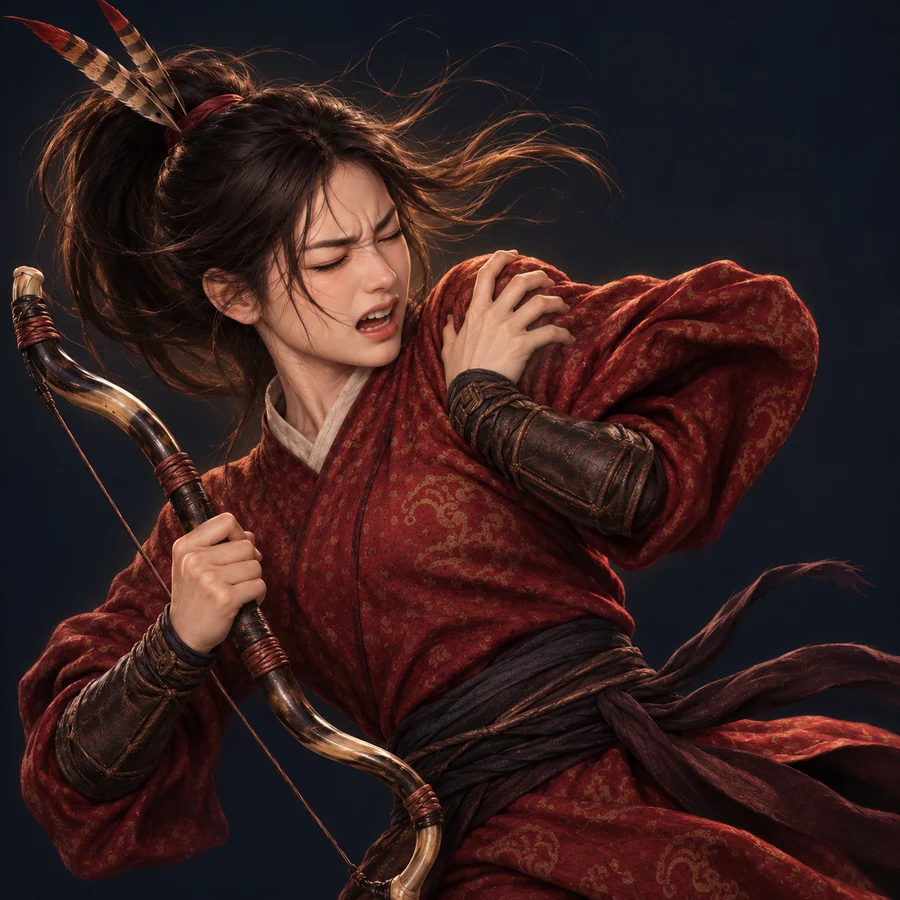
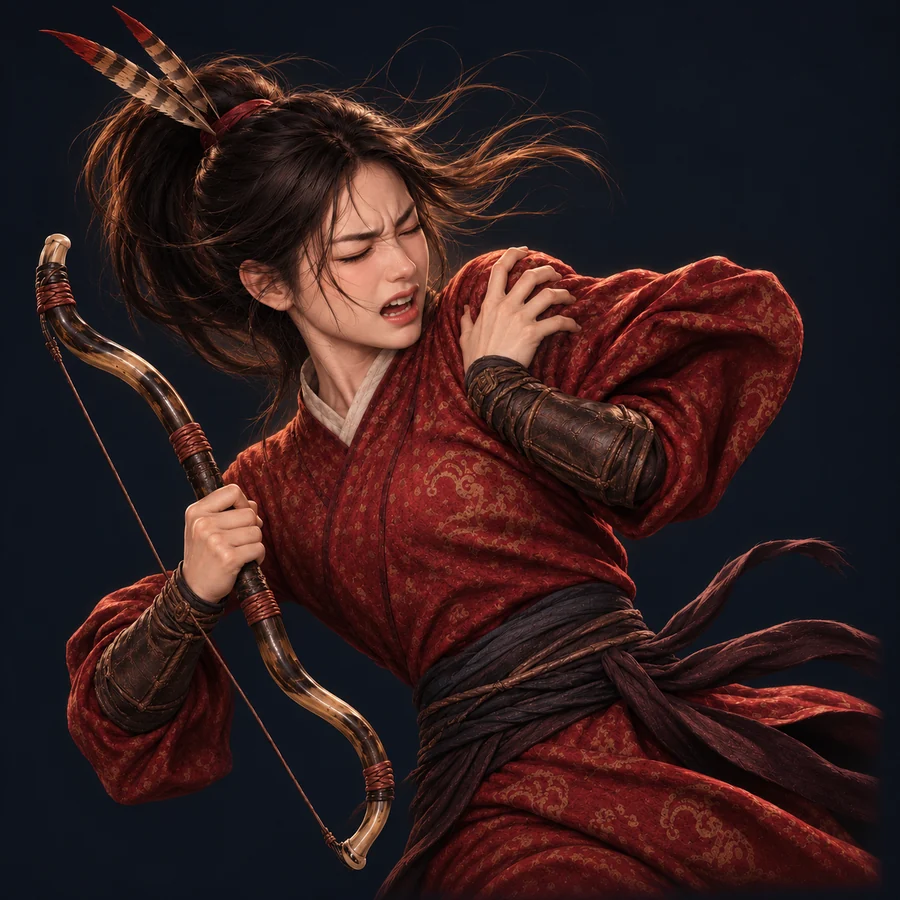
피격 초상: 고구려 활 왕자·온누리·금하·웅녀·변한 대장장이·평강
Claude-Session: https://claude.ai/code/session_01TRiuNB7ETQrp6jqUMFwvt7

diff --git a/src/ui/hit-portrait.ts b/src/ui/hit-portrait.ts
@@ -22,7 +22,7 @@ import { P } from '../tune/params.ts'
 /** 초상 결 — bust(기본 원화) · awaken(각성 원화) */
 export type HitForm = 'bust' | 'awaken'
 /** 피격 그림이 있는 초상 — `${결}/${초상 id}` (public/realm/hit/<결>/<id>.webp). 지금은 그림 없음 */
-export const HIT_ART: ReadonlySet<string> = new Set<string>(['awaken/g-01-master-smith', 'awaken/g-03-sea-trader', 'awaken/g-04-jinhan-giant', 'awaken/g-05-mahan-chieftain', 'awaken/g-06-strategist', 'awaken/g-07-drunk-warrior', 'awaken/g-08-veteran', 'awaken/g-09-farmer-conscript', 'awaken/g-10-buyeo-horse-lord', 'awaken/g-100-buyeo-old-daeso', 'awaken/g-101-garak-adogan', 'awaken/g-102-garak-yeodogan', 'awaken/g-103-garak-pidogan', 'awaken/g-104-garak-odogan', 'awaken/g-105-garak-yusugan', 'awaken/g-106-garak-ocheongan', 'awaken/g-107-garak-musoe', 'awaken/g-11-gaya-iron-general', 'awaken/g-12-silla-youth', 'awaken/g-13-baekje-general', 'awaken/g-15-shaman-man', 'awaken/g-16-goguryeo-gaema-commander', 'awaken/g-17-saro-isageum', 'awaken/g-18-daegaya-king', 'awaken/g-19-sabeol-veteran', 'awaken/g-20-samul-sea-lord', 'awaken/g-22-ungcheon-gomnae', 'awaken/g-23-sangdang-soedal', 'awaken/g-24-wansan-onsan', 'awaken/g-25-balla-keunmoe', 'awaken/g-26-gampyeong-gaetbeol', 'awaken/g-27-maek-maekdol', 'awaken/g-28-goguryeo-damul', 'awaken/g-29-yeonna-myeongsol', 'awaken/g-30-gwanna-soemoe', 'awaken/g-32-uga-sodu', 'awaken/g-33-jeoga-metdol', 'awaken/g-34-bukokjeo-duman', 'awaken/g-35-dabeol-dalgu', 'awaken/g-36-gammun-gamdol', 'awaken/g-37-eumjeup-jeup', 'awaken/g-38-chopal-palmae', 'awaken/g-40-anya-adan', 'awaken/g-41-goja-bau', 'awaken/g-42-dokro-garam', 'awaken/g-43-hwanna-amnok', 'awaken/g-44-maga-malgup', 'awaken/g-45-dabeol-deulgae', 'awaken/g-46-uga-nureongso', 'awaken/g-47-guga-sanyanggae', 'awaken/g-48-gwanna-musoe', 'awaken/g-49-goguryeo-sona', 'awaken/g-50-bullae-gwaha', 'awaken/g-51-biryuna-mulgyeol', 'awaken/g-52-tamna-oreum', 'awaken/g-53-baekje-haeru', 'awaken/g-54-mokji-mahan', 'awaken/g-55-saro-bakdal', 'awaken/g-56-haseulla-gwahama', 'awaken/g-57-bihwa-neup', 'awaken/g-58-usan-uhae', 'awaken/g-59-yangmaek-maekson', 'awaken/g-60-eupcha-hangyeol', 'awaken/g-60-golbeol-golgae', 'awaken/g-61-apdok-ap', 'awaken/g-61-heomcheuk-bawi', 'awaken/g-62-beonye-hanul', 'awaken/g-62-gammun-gamnamu', 'awaken/g-63-chopal-yeoul', 'awaken/g-63-heomcheuk-beogeum', 'awaken/g-64-jumong', 'awaken/g-64-michuhol-sogeumkkun', 'awaken/g-65-goguryeo-damul', 'awaken/g-65-sangdang-soemangchi', 'awaken/g-66-buyeo-geumha', 'awaken/g-66-geonma-malbalgup', 'awaken/g-67-buyeo-daeso', 'awaken/g-67-gosaburi-buri', 'awaken/g-68-baekje-onnuri', 'awaken/g-68-mujin-bitgoeul', 'awaken/g-69-goryong-yong', 'awaken/g-69-guya-soebo', 'awaken/g-70-siljik-pado', 'awaken/g-71-baekje-onjo', 'awaken/g-73-baekje-eureum', 'awaken/g-74-saro-hyeokgeose', 'awaken/g-75-saro-hogong', 'awaken/g-76-mokji-jinha', 'awaken/g-77-saro-sobeol', 'awaken/g-78-saro-alpyeong', 'awaken/g-79-saro-jibaekho', 'awaken/g-80-saro-guryema', 'awaken/g-81-saro-jita', 'awaken/g-82-saro-hojin', 'awaken/g-83-mokji-keundol', 'awaken/g-84-wander-seoneul', 'awaken/g-85-wander-ure', 'awaken/g-86-mokji-geumbawi', 'awaken/g-87-wae-chief', 'awaken/g-88-wander-soeul', 'awaken/g-89-baekje-maryeo', 'awaken/g-90-haengin-gomok', 'awaken/g-91-biryu-songyang', 'awaken/g-92-goguryeo-mari', 'awaken/g-93-jomun-solgae', 'awaken/g-94-golpo-maenun', 'awaken/g-95-goguryeo-daemusin', 'awaken/g-96-garak-suro', 'awaken/g-97-tahae', 'awaken/g-98-goguryeo-gwaeyu', 'awaken/g-99-goguryeo-maro', 'awaken/l-L1-yuhwa', 'awaken/l-L10-pyeonggang', 'awaken/l-L2-soseono', 'awaken/l-L3-heo-hwangok', 'awaken/l-L4-bari-gongju', 'awaken/l-L5-seonyeo', 'awaken/l-L6-jeonggyeon-moju', 'awaken/l-L7-aryeong', 'awaken/l-L8-nangnang-princess', 'awaken/w-01-silla-princess', 'awaken/w-02-goguryeo-lady', 'awaken/w-03-goguryeo-archer', 'awaken/w-04-gaya-swordswoman', 'awaken/w-05-baekje-queen', 'awaken/w-06-buyeo-huntress', 'awaken/w-08-mahan-warrior', 'awaken/w-10-pirate-captain', 'awaken/w-100-garak-sincheongan', 'awaken/w-101-garak-singwigan', 'awaken/w-102-garak-dana', 'awaken/w-103-tahae-neoul', 'awaken/w-104-buyeo-darae', 'awaken/w-11-assassin', 'awaken/w-12-court-dancer', 'awaken/w-13-young-archer', 'awaken/w-14-feast-spy', 'awaken/w-17-mahan-pearl-diver', 'awaken/w-18-jinhan-salt-widow', 'awaken/w-19-buyeo-fur-princess', 'awaken/w-20-gaya-smith-daughter', 'awaken/w-21-baekje-court-dancer', 'awaken/w-22-dongye-tiger-huntress', 'awaken/w-23-usisan-whale-queen', 'awaken/w-24-apdok-queen', 'awaken/w-25-bihwa-priestess', 'awaken/w-26-iseo-tomboy-general', 'awaken/w-27-mokji-jinha', 'awaken/w-28-michuhol-bira', 'awaken/w-29-golpo-janmul', 'awaken/w-30-guya-soebi', 'awaken/w-31-dabeol-dalbit', 'awaken/w-32-golbeol-budeul', 'awaken/w-33-gammun-gamsil', 'awaken/w-34-chopal-deulme', 'awaken/w-35-jomun-odi', 'awaken/w-36-baekje-maena', 'awaken/w-37-michuhol-gaennae', 'awaken/w-38-sangdang-bulmae', 'awaken/w-39-gosaburi-galmae', 'awaken/w-40-mujin-munui', 'awaken/w-41-hwanna-beodeul', 'awaken/w-42-gwanna-soenun', 'awaken/w-43-uga-nuri', 'awaken/w-44-okjeo-sogeumbi', 'awaken/w-45-tamna-oreumbi', 'awaken/w-46-geonma-maru', 'awaken/w-47-gosaburi-baram', 'awaken/w-48-mujin-mudeung', 'awaken/w-49-goryong-gureum', 'awaken/w-50-siljik-mulga', 'awaken/w-51-haseulla-dangung', 'awaken/w-52-biryuna-songbi', 'awaken/w-53-hwanna-gabi', 'awaken/w-54-maga-dalli', 'awaken/w-55-guga-nuri', 'awaken/w-56-dongokjeo-sogeum', 'awaken/w-57-bullae-bakdal', 'awaken/w-58-tamna-halla', 'awaken/w-59-jomun-irang', 'awaken/w-60-golbeol-beom', 'awaken/w-61-iseo-sinae', 'awaken/w-62-byeokjin-byeol', 'awaken/w-63-us-haesol', 'awaken/w-64-miri-dallae', 'awaken/w-65-goguryeo-hwalmi', 'awaken/w-66-saro-noeul', 'awaken/w-67-buyeo-haedal', 'awaken/w-68-maek-beombal', 'awaken/w-69-jeoga-eomni', 'awaken/w-70-bukokjeo-mulbeom', 'awaken/w-71-yeonna-neoul', 'awaken/w-72-eumjeup-beol', 'awaken/w-73-samul-sagong', 'awaken/w-74-balla-dokmudeom', 'awaken/w-75-daegaya-soemoe', 'awaken/w-76-gampyeong-baetsagong', 'awaken/w-77-sabeol-malgalgi', 'awaken/w-78-wansan-wan', 'awaken/w-79-yangmaek-solmae', 'awaken/w-80-usan-gangchi', 'awaken/w-81-byeokjin-byeolbit', 'awaken/w-82-ungcheon-gom', 'awaken/w-83-gyeonji-beodeul', 'awaken/w-84-salhae-dallae', 'awaken/w-85-sinji-neoul', 'awaken/w-90-saro-danbi', 'awaken/w-91-saro-mulsae', 'awaken/w-92-saro-dallae', 'awaken/w-93-saro-beomi', 'awaken/w-94-mokji-dallae', 'awaken/w-95-michuhol-haebi', 'awaken/w-96-haengin-neoul', 'awaken/w-97-goguryeo-mir', 'awaken/w-98-byeonhan-danbi', 'awaken/w-99-garak-yucheongan', 'bust/g-01-master-smith', 'bust/g-03-sea-trader', 'bust/g-04-jinhan-giant', 'bust/g-05-mahan-chieftain', 'bust/g-06-strategist', 'bust/g-07-drunk-warrior', 'bust/g-08-veteran', 'bust/g-09-farmer-conscript', 'bust/g-10-buyeo-horse-lord', 'bust/g-100-buyeo-old-daeso', 'bust/g-101-garak-adogan', 'bust/g-102-garak-yeodogan', 'bust/g-103-garak-pidogan', 'bust/g-104-garak-odogan', 'bust/g-105-garak-yusugan', 'bust/g-106-garak-ocheongan', 'bust/g-107-garak-musoe', 'bust/g-11-gaya-iron-general', 'bust/g-12-silla-youth', 'bust/g-13-baekje-general', 'bust/g-15-shaman-man', 'bust/g-16-goguryeo-gaema-commander', 'bust/g-17-saro-isageum', 'bust/g-18-daegaya-king', 'bust/g-19-sabeol-veteran', 'bust/g-20-samul-sea-lord', 'bust/g-22-ungcheon-gomnae', 'bust/g-23-sangdang-soedal', 'bust/g-24-wansan-onsan', 'bust/g-25-balla-keunmoe', 'bust/g-26-gampyeong-gaetbeol', 'bust/g-27-maek-maekdol', 'bust/g-28-goguryeo-damul', 'bust/g-29-yeonna-myeongsol', 'bust/g-30-gwanna-soemoe', 'bust/g-32-uga-sodu', 'bust/g-33-jeoga-metdol', 'bust/g-34-bukokjeo-duman', 'bust/g-35-dabeol-dalgu', 'bust/g-36-gammun-gamdol', 'bust/g-37-eumjeup-jeup', 'bust/g-38-chopal-palmae', 'bust/g-40-anya-adan', 'bust/g-41-goja-bau', 'bust/g-42-dokro-garam', 'bust/g-43-hwanna-amnok', 'bust/g-44-maga-malgup', 'bust/g-45-dabeol-deulgae', 'bust/g-46-uga-nureongso', 'bust/g-47-guga-sanyanggae', 'bust/g-48-gwanna-musoe', 'bust/g-49-goguryeo-sona', 'bust/g-50-bullae-gwaha', 'bust/g-51-biryuna-mulgyeol', 'bust/g-52-tamna-oreum', 'bust/g-53-baekje-haeru', 'bust/g-54-mokji-mahan', 'bust/g-55-saro-bakdal', 'bust/g-56-haseulla-gwahama', 'bust/g-57-bihwa-neup', 'bust/g-58-usan-uhae', 'bust/g-59-yangmaek-maekson', 'bust/g-60-eupcha-hangyeol', 'bust/g-60-golbeol-golgae', 'bust/g-61-apdok-ap', 'bust/g-61-heomcheuk-bawi', 'bust/g-62-beonye-hanul', 'bust/g-62-gammun-gamnamu', 'bust/g-63-chopal-yeoul', 'bust/g-63-heomcheuk-beogeum', 'bust/g-64-jumong', 'bust/g-64-michuhol-sogeumkkun', 'bust/g-65-goguryeo-damul', 'bust/g-65-sangdang-soemangchi', 'bust/g-66-buyeo-geumha', 'bust/g-66-geonma-malbalgup', 'bust/g-67-buyeo-daeso', 'bust/g-67-gosaburi-buri', 'bust/g-68-baekje-onnuri', 'bust/g-68-mujin-bitgoeul', 'bust/g-69-goryong-yong', 'bust/g-69-guya-soebo', 'bust/g-70-siljik-pado', 'bust/g-71-baekje-onjo', 'bust/g-73-baekje-eureum', 'bust/g-74-saro-hyeokgeose', 'bust/g-75-saro-hogong', 'bust/g-76-mokji-jinha', 'bust/g-77-saro-sobeol', 'bust/g-78-saro-alpyeong', 'bust/g-79-saro-jibaekho', 'bust/g-80-saro-guryema', 'bust/g-81-saro-jita', 'bust/g-82-saro-hojin', 'bust/g-83-mokji-keundol', 'bust/g-84-wander-seoneul', 'bust/g-85-wander-ure', 'bust/g-86-mokji-geumbawi', 'bust/g-87-wae-chief', 'bust/g-88-wander-soeul', 'bust/g-89-baekje-maryeo', 'bust/g-90-haengin-gomok', 'bust/g-91-biryu-songyang', 'bust/g-92-goguryeo-mari', 'bust/g-93-jomun-solgae', 'bust/g-94-golpo-maenun', 'bust/g-95-goguryeo-daemusin', 'bust/g-96-garak-suro', 'bust/g-97-tahae', 'bust/g-98-goguryeo-gwaeyu', 'bust/g-99-goguryeo-maro', 'bust/l-L1-yuhwa', 'bust/l-L10-pyeonggang', 'bust/l-L2-soseono', 'bust/l-L3-heo-hwangok', 'bust/l-L4-bari-gongju', 'bust/l-L5-seonyeo', 'bust/l-L6-jeonggyeon-moju', 'bust/l-L7-aryeong', 'bust/l-L8-nangnang-princess', 'bust/w-01-silla-princess', 'bust/w-02-goguryeo-lady', 'bust/w-03-goguryeo-archer', 'bust/w-04-gaya-swordswoman', 'bust/w-05-baekje-queen', 'bust/w-06-buyeo-huntress', 'bust/w-08-mahan-warrior', 'bust/w-10-pirate-captain', 'bust/w-100-garak-sincheongan', 'bust/w-101-garak-singwigan', 'bust/w-102-garak-dana', 'bust/w-103-tahae-neoul', 'bust/w-104-buyeo-darae', 'bust/w-11-assassin', 'bust/w-12-court-dancer', 'bust/w-13-young-archer', 'bust/w-14-feast-spy', 'bust/w-17-mahan-pearl-diver', 'bust/w-18-jinhan-salt-widow', 'bust/w-19-buyeo-fur-princess', 'bust/w-20-gaya-smith-daughter', 'bust/w-21-baekje-court-dancer', 'bust/w-22-dongye-tiger-huntress', 'bust/w-23-usisan-whale-queen', 'bust/w-24-apdok-queen', 'bust/w-25-bihwa-priestess', 'bust/w-26-iseo-tomboy-general', 'bust/w-27-mokji-jinha', 'bust/w-28-michuhol-bira', 'bust/w-29-golpo-janmul', 'bust/w-30-guya-soebi', 'bust/w-31-dabeol-dalbit', 'bust/w-32-golbeol-budeul', 'bust/w-33-gammun-gamsil', 'bust/w-34-chopal-deulme', 'bust/w-35-jomun-odi', 'bust/w-36-baekje-maena', 'bust/w-37-michuhol-gaennae', 'bust/w-38-sangdang-bulmae', 'bust/w-39-gosaburi-galmae', 'bust/w-40-mujin-munui', 'bust/w-41-hwanna-beodeul', 'bust/w-42-gwanna-soenun', 'bust/w-43-uga-nuri', 'bust/w-44-okjeo-sogeumbi', 'bust/w-45-tamna-oreumbi', 'bust/w-46-geonma-maru', 'bust/w-47-gosaburi-baram', 'bust/w-48-mujin-mudeung', 'bust/w-49-goryong-gureum', 'bust/w-50-siljik-mulga', 'bust/w-51-haseulla-dangung', 'bust/w-52-biryuna-songbi', 'bust/w-53-hwanna-gabi', 'bust/w-54-maga-dalli', 'bust/w-55-guga-nuri', 'bust/w-56-dongokjeo-sogeum', 'bust/w-57-bullae-bakdal', 'bust/w-58-tamna-halla', 'bust/w-59-jomun-irang', 'bust/w-60-golbeol-beom', 'bust/w-61-iseo-sinae', 'bust/w-62-byeokjin-byeol', 'bust/w-63-us-haesol', 'bust/w-64-miri-dallae', 'bust/w-65-goguryeo-hwalmi', 'bust/w-66-saro-noeul', 'bust/w-67-buyeo-haedal', 'bust/w-68-maek-beombal', 'bust/w-69-jeoga-eomni', 'bust/w-70-bukokjeo-mulbeom', 'bust/w-71-yeonna-neoul', 'bust/w-72-eumjeup-beol', 'bust/w-73-samul-sagong', 'bust/w-74-balla-dokmudeom', 'bust/w-75-daegaya-soemoe', 'bust/w-76-gampyeong-baetsagong', 'bust/w-77-sabeol-malgalgi', 'bust/w-78-wansan-wan', 'bust/w-79-yangmaek-solmae', 'bust/w-80-usan-gangchi', 'bust/w-81-byeokjin-byeolbit', 'bust/w-82-ungcheon-gom', 'bust/w-83-gyeonji-beodeul', 'bust/w-84-salhae-dallae', 'bust/w-85-sinji-neoul', 'bust/w-90-saro-danbi', 'bust/w-91-saro-mulsae', 'bust/w-92-saro-dallae', 'bust/w-93-saro-beomi', 'bust/w-94-mokji-dallae', 'bust/w-95-michuhol-haebi', 'bust/w-96-haengin-neoul', 'bust/w-97-goguryeo-mir', 'bust/w-98-byeonhan-danbi', 'bust/w-99-garak-yucheongan'])
+export const HIT_ART: ReadonlySet<string> = new Set<string>(['awaken/g-01-master-smith', 'awaken/g-02-goguryeo-archer-prince', 'awaken/g-03-sea-trader', 'awaken/g-04-jinhan-giant', 'awaken/g-05-mahan-chieftain', 'awaken/g-06-strategist', 'awaken/g-07-drunk-warrior', 'awaken/g-08-veteran', 'awaken/g-09-farmer-conscript', 'awaken/g-10-buyeo-horse-lord', 'awaken/g-100-buyeo-old-daeso', 'awaken/g-101-garak-adogan', 'awaken/g-102-garak-yeodogan', 'awaken/g-103-garak-pidogan', 'awaken/g-104-garak-odogan', 'awaken/g-105-garak-yusugan', 'awaken/g-106-garak-ocheongan', 'awaken/g-107-garak-musoe', 'awaken/g-11-gaya-iron-general', 'awaken/g-12-silla-youth', 'awaken/g-13-baekje-general', 'awaken/g-15-shaman-man', 'awaken/g-16-goguryeo-gaema-commander', 'awaken/g-17-saro-isageum', 'awaken/g-18-daegaya-king', 'awaken/g-19-sabeol-veteran', 'awaken/g-20-samul-sea-lord', 'awaken/g-21-baekje-onnuri', 'awaken/g-22-ungcheon-gomnae', 'awaken/g-23-sangdang-soedal', 'awaken/g-24-wansan-onsan', 'awaken/g-25-balla-keunmoe', 'awaken/g-26-gampyeong-gaetbeol', 'awaken/g-27-maek-maekdol', 'awaken/g-28-goguryeo-damul', 'awaken/g-29-yeonna-myeongsol', 'awaken/g-30-gwanna-soemoe', 'awaken/g-31-buyeo-geumha', 'awaken/g-32-uga-sodu', 'awaken/g-33-jeoga-metdol', 'awaken/g-34-bukokjeo-duman', 'awaken/g-35-dabeol-dalgu', 'awaken/g-36-gammun-gamdol', 'awaken/g-37-eumjeup-jeup', 'awaken/g-38-chopal-palmae', 'awaken/g-40-anya-adan', 'awaken/g-41-goja-bau', 'awaken/g-42-dokro-garam', 'awaken/g-43-hwanna-amnok', 'awaken/g-44-maga-malgup', 'awaken/g-45-dabeol-deulgae', 'awaken/g-46-uga-nureongso', 'awaken/g-47-guga-sanyanggae', 'awaken/g-48-gwanna-musoe', 'awaken/g-49-goguryeo-sona', 'awaken/g-50-bullae-gwaha', 'awaken/g-51-biryuna-mulgyeol', 'awaken/g-52-tamna-oreum', 'awaken/g-53-baekje-haeru', 'awaken/g-54-mokji-mahan', 'awaken/g-55-saro-bakdal', 'awaken/g-56-haseulla-gwahama', 'awaken/g-57-bihwa-neup', 'awaken/g-58-usan-uhae', 'awaken/g-59-yangmaek-maekson', 'awaken/g-60-eupcha-hangyeol', 'awaken/g-60-golbeol-golgae', 'awaken/g-61-apdok-ap', 'awaken/g-61-heomcheuk-bawi', 'awaken/g-62-beonye-hanul', 'awaken/g-62-gammun-gamnamu', 'awaken/g-63-chopal-yeoul', 'awaken/g-63-heomcheuk-beogeum', 'awaken/g-64-jumong', 'awaken/g-64-michuhol-sogeumkkun', 'awaken/g-65-goguryeo-damul', 'awaken/g-65-sangdang-soemangchi', 'awaken/g-66-buyeo-geumha', 'awaken/g-66-geonma-malbalgup', 'awaken/g-67-buyeo-daeso', 'awaken/g-67-gosaburi-buri', 'awaken/g-68-baekje-onnuri', 'awaken/g-68-mujin-bitgoeul', 'awaken/g-69-goryong-yong', 'awaken/g-69-guya-soebo', 'awaken/g-70-siljik-pado', 'awaken/g-71-baekje-onjo', 'awaken/g-73-baekje-eureum', 'awaken/g-74-saro-hyeokgeose', 'awaken/g-75-saro-hogong', 'awaken/g-76-mokji-jinha', 'awaken/g-77-saro-sobeol', 'awaken/g-78-saro-alpyeong', 'awaken/g-79-saro-jibaekho', 'awaken/g-80-saro-guryema', 'awaken/g-81-saro-jita', 'awaken/g-82-saro-hojin', 'awaken/g-83-mokji-keundol', 'awaken/g-84-wander-seoneul', 'awaken/g-85-wander-ure', 'awaken/g-86-mokji-geumbawi', 'awaken/g-87-wae-chief', 'awaken/g-88-wander-soeul', 'awaken/g-89-baekje-maryeo', 'awaken/g-90-haengin-gomok', 'awaken/g-91-biryu-songyang', 'awaken/g-92-goguryeo-mari', 'awaken/g-93-jomun-solgae', 'awaken/g-94-golpo-maenun', 'awaken/g-95-goguryeo-daemusin', 'awaken/g-96-garak-suro', 'awaken/g-97-tahae', 'awaken/g-98-goguryeo-gwaeyu', 'awaken/g-99-goguryeo-maro', 'awaken/l-L1-yuhwa', 'awaken/l-L10-pyeonggang', 'awaken/l-L2-soseono', 'awaken/l-L3-heo-hwangok', 'awaken/l-L4-bari-gongju', 'awaken/l-L5-seonyeo', 'awaken/l-L6-jeonggyeon-moju', 'awaken/l-L7-aryeong', 'awaken/l-L8-nangnang-princess', 'awaken/l-L9-ungnyeo', 'awaken/w-01-silla-princess', 'awaken/w-02-goguryeo-lady', 'awaken/w-03-goguryeo-archer', 'awaken/w-04-gaya-swordswoman', 'awaken/w-05-baekje-queen', 'awaken/w-06-buyeo-huntress', 'awaken/w-08-mahan-warrior', 'awaken/w-09-byeonhan-smith', 'awaken/w-10-pirate-captain', 'awaken/w-100-garak-sincheongan', 'awaken/w-101-garak-singwigan', 'awaken/w-102-garak-dana', 'awaken/w-103-tahae-neoul', 'awaken/w-104-buyeo-darae', 'awaken/w-11-assassin', 'awaken/w-12-court-dancer', 'awaken/w-13-young-archer', 'awaken/w-14-feast-spy', 'awaken/w-17-mahan-pearl-diver', 'awaken/w-18-jinhan-salt-widow', 'awaken/w-19-buyeo-fur-princess', 'awaken/w-20-gaya-smith-daughter', 'awaken/w-21-baekje-court-dancer', 'awaken/w-22-dongye-tiger-huntress', 'awaken/w-23-usisan-whale-queen', 'awaken/w-24-apdok-queen', 'awaken/w-25-bihwa-priestess', 'awaken/w-26-iseo-tomboy-general', 'awaken/w-27-mokji-jinha', 'awaken/w-28-michuhol-bira', 'awaken/w-29-golpo-janmul', 'awaken/w-30-guya-soebi', 'awaken/w-31-dabeol-dalbit', 'awaken/w-32-golbeol-budeul', 'awaken/w-33-gammun-gamsil', 'awaken/w-34-chopal-deulme', 'awaken/w-35-jomun-odi', 'awaken/w-36-baekje-maena', 'awaken/w-37-michuhol-gaennae', 'awaken/w-38-sangdang-bulmae', 'awaken/w-39-gosaburi-galmae', 'awaken/w-40-mujin-munui', 'awaken/w-41-hwanna-beodeul', 'awaken/w-42-gwanna-soenun', 'awaken/w-43-uga-nuri', 'awaken/w-44-okjeo-sogeumbi', 'awaken/w-45-tamna-oreumbi', 'awaken/w-46-geonma-maru', 'awaken/w-47-gosaburi-baram', 'awaken/w-48-mujin-mudeung', 'awaken/w-49-goryong-gureum', 'awaken/w-50-siljik-mulga', 'awaken/w-51-haseulla-dangung', 'awaken/w-52-biryuna-songbi', 'awaken/w-53-hwanna-gabi', 'awaken/w-54-maga-dalli', 'awaken/w-55-guga-nuri', 'awaken/w-56-dongokjeo-sogeum', 'awaken/w-57-bullae-bakdal', 'awaken/w-58-tamna-halla', 'awaken/w-59-jomun-irang', 'awaken/w-60-golbeol-beom', 'awaken/w-61-iseo-sinae', 'awaken/w-62-byeokjin-byeol', 'awaken/w-63-us-haesol', 'awaken/w-64-miri-dallae', 'awaken/w-65-goguryeo-hwalmi', 'awaken/w-66-saro-noeul', 'awaken/w-67-buyeo-haedal', 'awaken/w-68-maek-beombal', 'awaken/w-69-jeoga-eomni', 'awaken/w-70-bukokjeo-mulbeom', 'awaken/w-71-yeonna-neoul', 'awaken/w-72-eumjeup-beol', 'awaken/w-73-samul-sagong', 'awaken/w-74-balla-dokmudeom', 'awaken/w-75-daegaya-soemoe', 'awaken/w-76-gampyeong-baetsagong', 'awaken/w-77-sabeol-malgalgi', 'awaken/w-78-wansan-wan', 'awaken/w-79-yangmaek-solmae', 'awaken/w-80-usan-gangchi', 'awaken/w-81-byeokjin-byeolbit', 'awaken/w-82-ungcheon-gom', 'awaken/w-83-gyeonji-beodeul', 'awaken/w-84-salhae-dallae', 'awaken/w-85-sinji-neoul', 'awaken/w-90-saro-danbi', 'awaken/w-91-saro-mulsae', 'awaken/w-92-saro-dallae', 'awaken/w-93-saro-beomi', 'awaken/w-94-mokji-dallae', 'awaken/w-95-michuhol-haebi', 'awaken/w-96-haengin-neoul', 'awaken/w-97-goguryeo-mir', 'awaken/w-98-byeonhan-danbi', 'awaken/w-99-garak-yucheongan', 'awaken2/l-L1-yuhwa', 'awaken2/l-L10-pyeonggang', 'awaken2/l-L2-soseono', 'awaken2/l-L3-heo-hwangok', 'awaken2/l-L4-bari-gongju', 'awaken2/l-L6-jeonggyeon-moju', 'awaken2/l-L7-aryeong', 'awaken2/l-L8-nangnang-princess', 'awaken2/w-01-silla-princess', 'awaken2/w-02-goguryeo-lady', 'awaken2/w-04-gaya-swordswoman', 'awaken2/w-05-baekje-queen', 'awaken2/w-06-buyeo-huntress', 'awaken2/w-11-assassin', 'awaken2/w-17-mahan-pearl-diver', 'bust/g-01-master-smith', 'bust/g-02-goguryeo-archer-prince', 'bust/g-03-sea-trader', 'bust/g-04-jinhan-giant', 'bust/g-05-mahan-chieftain', 'bust/g-06-strategist', 'bust/g-07-drunk-warrior', 'bust/g-08-veteran', 'bust/g-09-farmer-conscript', 'bust/g-10-buyeo-horse-lord', 'bust/g-100-buyeo-old-daeso', 'bust/g-101-garak-adogan', 'bust/g-102-garak-yeodogan', 'bust/g-103-garak-pidogan', 'bust/g-104-garak-odogan', 'bust/g-105-garak-yusugan', 'bust/g-106-garak-ocheongan', 'bust/g-107-garak-musoe', 'bust/g-11-gaya-iron-general', 'bust/g-12-silla-youth', 'bust/g-13-baekje-general', 'bust/g-15-shaman-man', 'bust/g-16-goguryeo-gaema-commander', 'bust/g-17-saro-isageum', 'bust/g-18-daegaya-king', 'bust/g-19-sabeol-veteran', 'bust/g-20-samul-sea-lord', 'bust/g-21-baekje-onnuri', 'bust/g-22-ungcheon-gomnae', 'bust/g-23-sangdang-soedal', 'bust/g-24-wansan-onsan', 'bust/g-25-balla-keunmoe', 'bust/g-26-gampyeong-gaetbeol', 'bust/g-27-maek-maekdol', 'bust/g-28-goguryeo-damul', 'bust/g-29-yeonna-myeongsol', 'bust/g-30-gwanna-soemoe', 'bust/g-31-buyeo-geumha', 'bust/g-32-uga-sodu', 'bust/g-33-jeoga-metdol', 'bust/g-34-bukokjeo-duman', 'bust/g-35-dabeol-dalgu', 'bust/g-36-gammun-gamdol', 'bust/g-37-eumjeup-jeup', 'bust/g-38-chopal-palmae', 'bust/g-40-anya-adan', 'bust/g-41-goja-bau', 'bust/g-42-dokro-garam', 'bust/g-43-hwanna-amnok', 'bust/g-44-maga-malgup', 'bust/g-45-dabeol-deulgae', 'bust/g-46-uga-nureongso', 'bust/g-47-guga-sanyanggae', 'bust/g-48-gwanna-musoe', 'bust/g-49-goguryeo-sona', 'bust/g-50-bullae-gwaha', 'bust/g-51-biryuna-mulgyeol', 'bust/g-52-tamna-oreum', 'bust/g-53-baekje-haeru', 'bust/g-54-mokji-mahan', 'bust/g-55-saro-bakdal', 'bust/g-56-haseulla-gwahama', 'bust/g-57-bihwa-neup', 'bust/g-58-usan-uhae', 'bust/g-59-yangmaek-maekson', 'bust/g-60-eupcha-hangyeol', 'bust/g-60-golbeol-golgae', 'bust/g-61-apdok-ap', 'bust/g-61-heomcheuk-bawi', 'bust/g-62-beonye-hanul', 'bust/g-62-gammun-gamnamu', 'bust/g-63-chopal-yeoul', 'bust/g-63-heomcheuk-beogeum', 'bust/g-64-jumong', 'bust/g-64-michuhol-sogeumkkun', 'bust/g-65-goguryeo-damul', 'bust/g-65-sangdang-soemangchi', 'bust/g-66-buyeo-geumha', 'bust/g-66-geonma-malbalgup', 'bust/g-67-buyeo-daeso', 'bust/g-67-gosaburi-buri', 'bust/g-68-baekje-onnuri', 'bust/g-68-mujin-bitgoeul', 'bust/g-69-goryong-yong', 'bust/g-69-guya-soebo', 'bust/g-70-siljik-pado', 'bust/g-71-baekje-onjo', 'bust/g-73-baekje-eureum', 'bust/g-74-saro-hyeokgeose', 'bust/g-75-saro-hogong', 'bust/g-76-mokji-jinha', 'bust/g-77-saro-sobeol', 'bust/g-78-saro-alpyeong', 'bust/g-79-saro-jibaekho', 'bust/g-80-saro-guryema', 'bust/g-81-saro-jita', 'bust/g-82-saro-hojin', 'bust/g-83-mokji-keundol', 'bust/g-84-wander-seoneul', 'bust/g-85-wander-ure', 'bust/g-86-mokji-geumbawi', 'bust/g-87-wae-chief', 'bust/g-88-wander-soeul', 'bust/g-89-baekje-maryeo', 'bust/g-90-haengin-gomok', 'bust/g-91-biryu-songyang', 'bust/g-92-goguryeo-mari', 'bust/g-93-jomun-solgae', 'bust/g-94-golpo-maenun', 'bust/g-95-goguryeo-daemusin', 'bust/g-96-garak-suro', 'bust/g-97-tahae', 'bust/g-98-goguryeo-gwaeyu', 'bust/g-99-goguryeo-maro', 'bust/l-L1-yuhwa', 'bust/l-L10-pyeonggang', 'bust/l-L2-soseono', 'bust/l-L3-heo-hwangok', 'bust/l-L4-bari-gongju', 'bust/l-L5-seonyeo', 'bust/l-L6-jeonggyeon-moju', 'bust/l-L7-aryeong', 'bust/l-L8-nangnang-princess', 'bust/l-L9-ungnyeo', 'bust/w-01-silla-princess', 'bust/w-02-goguryeo-lady', 'bust/w-03-goguryeo-archer', 'bust/w-04-gaya-swordswoman', 'bust/w-05-baekje-queen', 'bust/w-06-buyeo-huntress', 'bust/w-08-mahan-warrior', 'bust/w-09-byeonhan-smith', 'bust/w-10-pirate-captain', 'bust/w-100-garak-sincheongan', 'bust/w-101-garak-singwigan', 'bust/w-102-garak-dana', 'bust/w-103-tahae-neoul', 'bust/w-104-buyeo-darae', 'bust/w-11-assassin', 'bust/w-12-court-dancer', 'bust/w-13-young-archer', 'bust/w-14-feast-spy', 'bust/w-17-mahan-pearl-diver', 'bust/w-18-jinhan-salt-widow', 'bust/w-19-buyeo-fur-princess', 'bust/w-20-gaya-smith-daughter', 'bust/w-21-baekje-court-dancer', 'bust/w-22-dongye-tiger-huntress', 'bust/w-23-usisan-whale-queen', 'bust/w-24-apdok-queen', 'bust/w-25-bihwa-priestess', 'bust/w-26-iseo-tomboy-general', 'bust/w-27-mokji-jinha', 'bust/w-28-michuhol-bira', 'bust/w-29-golpo-janmul', 'bust/w-30-guya-soebi', 'bust/w-31-dabeol-dalbit', 'bust/w-32-golbeol-budeul', 'bust/w-33-gammun-gamsil', 'bust/w-34-chopal-deulme', 'bust/w-35-jomun-odi', 'bust/w-36-baekje-maena', 'bust/w-37-michuhol-gaennae', 'bust/w-38-sangdang-bulmae', 'bust/w-39-gosaburi-galmae', 'bust/w-40-mujin-munui', 'bust/w-41-hwanna-beodeul', 'bust/w-42-gwanna-soenun', 'bust/w-43-uga-nuri', 'bust/w-44-okjeo-sogeumbi', 'bust/w-45-tamna-oreumbi', 'bust/w-46-geonma-maru', 'bust/w-47-gosaburi-baram', 'bust/w-48-mujin-mudeung', 'bust/w-49-goryong-gureum', 'bust/w-50-siljik-mulga', 'bust/w-51-haseulla-dangung', 'bust/w-52-biryuna-songbi', 'bust/w-53-hwanna-gabi', 'bust/w-54-maga-dalli', 'bust/w-55-guga-nuri', 'bust/w-56-dongokjeo-sogeum', 'bust/w-57-bullae-bakdal', 'bust/w-58-tamna-halla', 'bust/w-59-jomun-irang', 'bust/w-60-golbeol-beom', 'bust/w-61-iseo-sinae', 'bust/w-62-byeokjin-byeol', 'bust/w-63-us-haesol', 'bust/w-64-miri-dallae', 'bust/w-65-goguryeo-hwalmi', 'bust/w-66-saro-noeul', 'bust/w-67-buyeo-haedal', 'bust/w-68-maek-beombal', 'bust/w-69-jeoga-eomni', 'bust/w-70-bukokjeo-mulbeom', 'bust/w-71-yeonna-neoul', 'bust/w-72-eumjeup-beol', 'bust/w-73-samul-sagong', 'bust/w-74-balla-dokmudeom', 'bust/w-75-daegaya-soemoe', 'bust/w-76-gampyeong-baetsagong', 'bust/w-77-sabeol-malgalgi', 'bust/w-78-wansan-wan', 'bust/w-79-yangmaek-solmae', 'bust/w-80-usan-gangchi', 'bust/w-81-byeokjin-byeolbit', 'bust/w-82-ungcheon-gom', 'bust/w-83-gyeonji-beodeul', 'bust/w-84-salhae-dallae', 'bust/w-85-sinji-neoul', 'bust/w-90-saro-danbi', 'bust/w-91-saro-mulsae', 'bust/w-92-saro-dallae', 'bust/w-93-saro-beomi', 'bust/w-94-mokji-dallae', 'bust/w-95-michuhol-haebi', 'bust/w-96-haengin-neoul', 'bust/w-97-goguryeo-mir', 'bust/w-98-byeonhan-danbi', 'bust/w-99-garak-yucheongan'])
 /** 피격 그림 길 (realm/ 아래) — 없으면 null */
 export const hitArtPath = (form: HitForm, bust: string | null | undefined): string | null =>
   bust !== null && bust !== undefined && HIT_ART.has(`${form}/${bust}`) ? `hit/${form}/${bust}.webp` : null
